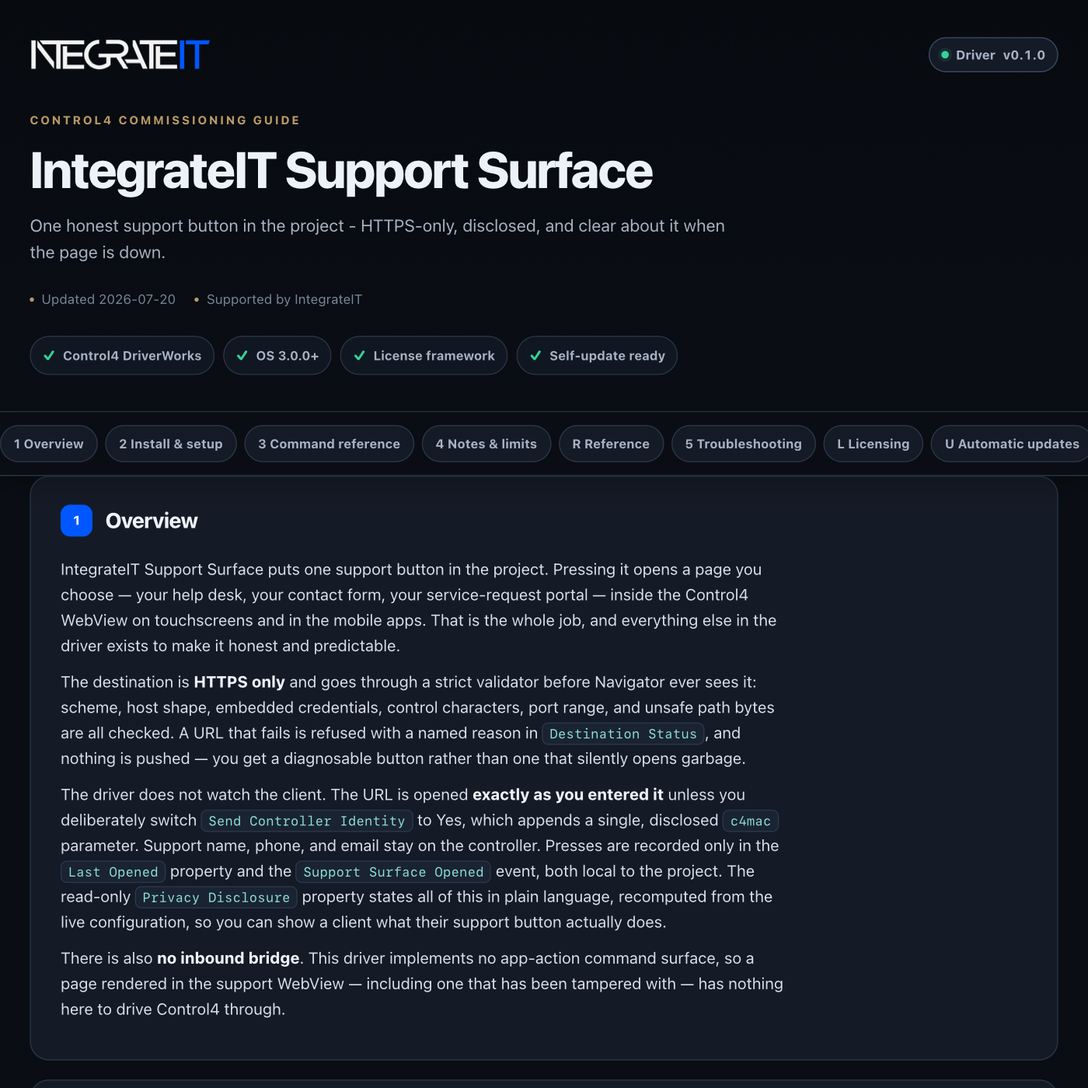
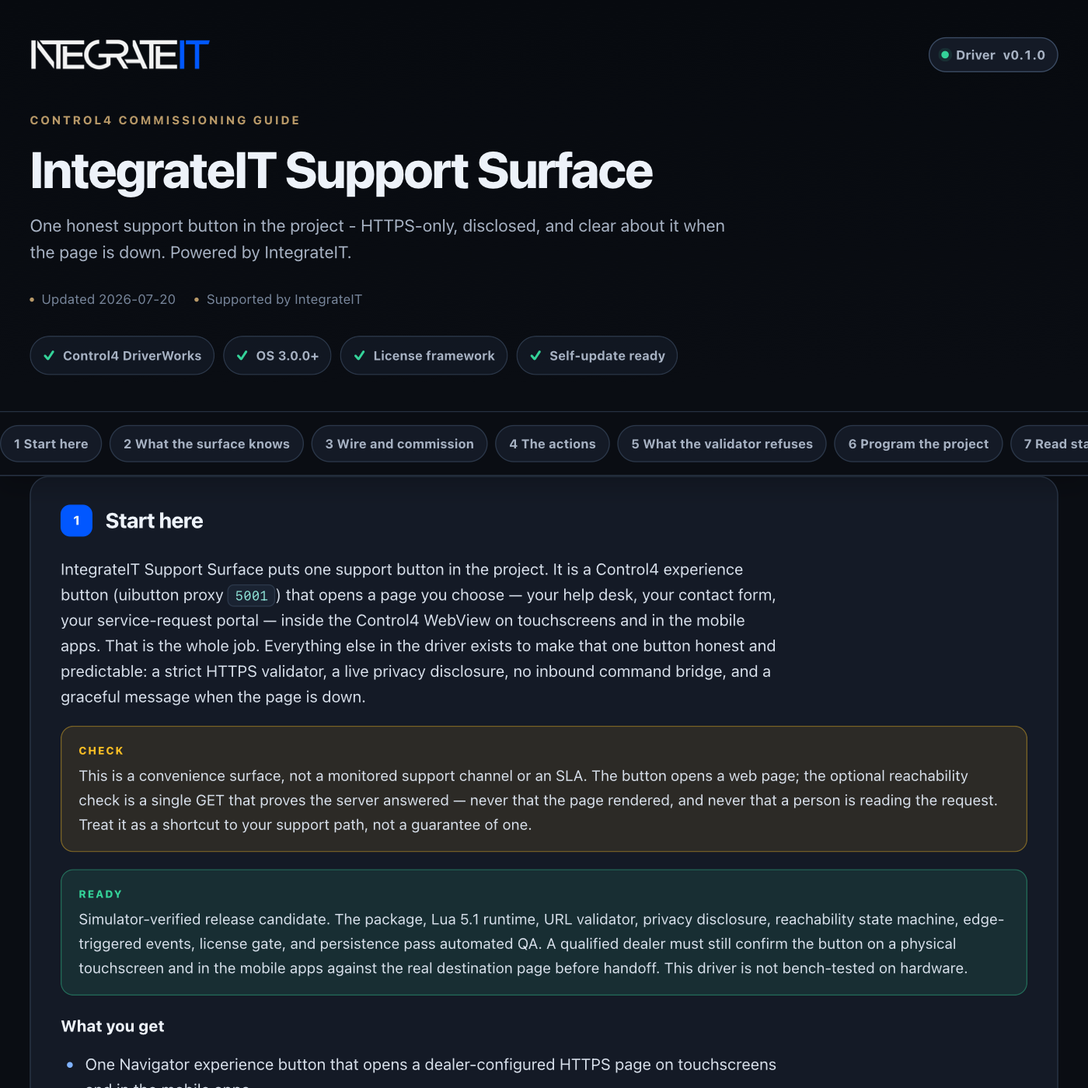
control4: publish driver channel (integrateit_support_surface 0.1.1)

diff --git a/control4/integrateit_support_surface/documentation.html b/control4/integrateit_support_surface/documentation.html
@@ -179,13 +179,13 @@ td code{white-space:normal}
     <div class="wrap">
       <div class="brandbar">
[1 lines of base64/hex data omitted]
-        <span class="version"><span class="word">Driver</span> v0.1.0</span>
+        <span class="version"><span class="word">Driver</span> v0.1.1</span>
       </div>
       <p class="eyebrow">Control4 commissioning guide</p>
       <h1>IntegrateIT Support Surface</h1>
-      <p class="sub">One honest support button in the project - HTTPS-only, disclosed, and clear about it when the page is down.</p>
+      <p class="sub">One honest support button in the project - HTTPS-only, disclosed, and clear about it when the page is down. Powered by IntegrateIT.</p>
       <div class="meta">
-        <span>Updated 2026-07-20</span>
+        <span>Updated 2026-07-26</span>
         <span>Supported by IntegrateIT</span>
       </div>
       <div class="readiness" aria-label="Driver capabilities">
@@ -198,59 +198,152 @@ td code{white-space:normal}
   </header>
 
   <div class="toc-wrap">
-    <nav class="toc wrap" aria-label="Documentation sections"><a href="#overview">1 Overview</a><a href="#install">2 Install &amp; setup</a><a href="#commands">3 Command reference</a><a href="#notes">4 Notes &amp; limits</a><a href="#reference">R Reference</a><a href="#troubleshooting">5 Troubleshooting</a><a href="#licensing">L Licensing</a><a href="#updates">U Automatic updates</a><a href="#changelog">V Version history</a></nav>
+    <nav class="toc wrap" aria-label="Documentation sections"><a href="#overview">1 Start here</a><a href="#contract">2 What the surface knows</a><a href="#setup">3 Wire and commission</a><a href="#actions">4 The actions</a><a href="#validation">5 What the validator refuses</a><a href="#programming">6 Program the project</a><a href="#status">7 Read status at a glance</a><a href="#troubleshooting">8 Troubleshoot methodically</a><a href="#trust">9 Ownership, privacy, and licensing</a><a href="#reference">R Reference</a><a href="#licensing">L Licensing</a><a href="#updates">U Automatic updates</a><a href="#changelog">V Version history</a></nav>
   </div>
 
   <main class="wrap">
     <section class="card" id="overview" data-card="overview">
-  <h2><span class="n">1</span> Overview</h2>
-  <p>IntegrateIT Support Surface puts one support button in the project. Pressing it opens a page you choose — your help desk, your contact form, your service-request portal — inside the Control4 WebView on touchscreens and in the mobile apps. That is the whole job, and everything else in the driver exists to make it honest and predictable.</p>
-  <p>The destination is <b>HTTPS only</b> and goes through a strict validator before Navigator ever sees it: scheme, host shape, embedded credentials, control characters, port range, and unsafe path bytes are all checked. A URL that fails is refused with a named reason in <code>Destination Status</code>, and nothing is pushed — you get a diagnosable button rather than one that silently opens garbage.</p>
-  <p>The driver does not watch the client. The URL is opened <b>exactly as you entered it</b> unless you deliberately switch <code>Send Controller Identity</code> to Yes, which appends a single, disclosed <code>c4mac</code> parameter. Support name, phone, and email stay on the controller. Presses are recorded only in the <code>Last Opened</code> property and the <code>Support Surface Opened</code> event, both local to the project. The read-only <code>Privacy Disclosure</code> property states all of this in plain language, recomputed from the live configuration, so you can show a client what their support button actually does.</p>
-  <p>There is also <b>no inbound bridge</b>. This driver implements no app-action command surface, so a page rendered in the support WebView — including one that has been tampered with — has nothing here to drive Control4 through.</p>
+  <h2><span class="n">1</span> Start here</h2>
+  <p>IntegrateIT Support Surface puts one support button in the project. It is a Control4 experience button (uibutton proxy <code>5001</code>) that opens a page you choose — your help desk, your contact form, your service-request portal — inside the Control4 WebView on touchscreens and in the mobile apps. That is the whole job. Everything else in the driver exists to make that one button honest and predictable: a strict HTTPS validator, a live privacy disclosure, no inbound command bridge, and a graceful message when the page is down.</p>
+  <div class="note warn">This is a convenience surface, not a monitored support channel or an SLA. The button opens a web page; the optional reachability check is a single GET that proves the server answered — never that the page rendered, and never that a person is reading the request. Treat it as a shortcut to your support path, not a guarantee of one.</div>
+  <div class="note good">Simulator-verified release candidate. The package, Lua 5.1 runtime, URL validator, privacy disclosure, reachability state machine, edge-triggered events, license gate, and persistence pass automated QA. A qualified dealer must still confirm the button on a physical touchscreen and in the mobile apps against the real destination page before handoff. This driver is not bench-tested on hardware.</div>
+  <p><b>What you get</b></p>
+  <ul>
+    <li>One Navigator experience button that opens a dealer-configured HTTPS page on touchscreens and in the mobile apps.</li>
+    <li>A strict HTTPS-only validator that names its refusal reason in <code>Destination Status</code> and fires <b>Support URL Rejected</b> instead of pushing a bad URL.</li>
+    <li>No hidden tracking: the URL opens exactly as entered unless you opt in to <code>Send Controller Identity</code>, which appends one disclosed <code>c4mac</code> parameter. Contact details never leave the controller.</li>
+    <li>A read-only <code>Privacy Disclosure</code> property recomputed from the live configuration, plus a <b>Print Privacy Disclosure</b> action.</li>
+    <li>No inbound WebView bridge: a page rendered in this surface has nothing here to drive Control4 with.</li>
+    <li>An optional reachability check (On Open or Hourly) with edge-triggered <b>Support Destination Unreachable</b> / <b>Restored</b> events and a dealer-authored offline message.</li>
+    <li><code>Support Contact Name</code>, <code>Support Phone</code>, and <code>Support Email</code> published as the <code>SUPPORT_CONTACT</code> variable for announcements and dashboards.</li>
+    <li>MAC-locked IntegrateIT licensing that gates events and monitoring, never the support page itself.</li>
+  </ul>
 </section>
 
-<section class="card" id="install" data-card="install">
-  <h2><span class="n">2</span> Install &amp; setup</h2>
+<section class="card" id="contract" data-card="contract">
+  <h2><span class="n">2</span> What the surface knows</h2>
+  <p>The driver never claims more than it can observe.</p>
+  <ul>
+    <li><b>It supplies a URL, and only a URL.</b> Rendering, scrolling, form input, and accessibility inside the page are the Control4 WebView's behavior and the page's own responsibility. This driver's entire job is to hand Navigator one validated HTTPS address.</li>
+    <li><b>Reachability is one GET and one status code.</b> A code of 0 (no answer) reads <code>Unreachable — the support page did not answer</code>; <code>200</code>–<code>399</code> reads <code>Reachable (HTTP &lt;code&gt;)</code>; a <code>4xx</code>/<code>5xx</code> reads <code>Destination error (HTTP &lt;code&gt;)</code> and is treated as unreachable, because to the person tapping the button a broken page is indistinguishable from a down one. The check proves the server answered; it cannot prove the page rendered correctly.</li>
+    <li><b>Hourly is blind between checks.</b> It probes once shortly after boot (or after you switch to Hourly) and then once an hour, so an outage that starts and ends between two checks is never observed and raises no event.</li>
+    <li><b>The probe never carries identity.</b> It fetches the address exactly as entered — never the <code>c4mac</code> parameter, even when <code>Send Controller Identity</code> is on — so the driver never beacons the controller MAC on its own schedule. The status code is identical either way.</li>
+    <li><b>No inbound bridge.</b> Only a button press (<code>SELECT</code> / <code>DO_CLICK</code>) on binding <code>5001</code> is handled; every other proxy command is debug-logged and dropped. A page loaded in this WebView — including a compromised third-party one — has nothing here to reach Control4 through.</li>
+  </ul>
+</section>
+
+<section class="card" id="setup" data-card="setup">
+  <h2><span class="n">3</span> Wire and commission</h2>
   <ol class="steps">
-    <li>Add the driver to the main room (or wherever the support button belongs).</li>
+    <li>Add <b>IntegrateIT Support Surface</b> to the room where the support button belongs.</li>
+    <li>In that room's <b>Navigator</b> properties, set the *Support* experience button <b>Visible</b>, then <b>Refresh Navigators</b>. The button does not appear until it is made visible and Navigators are refreshed — do this first so every later step can be confirmed from a real Navigator.</li>
     <li>Enter your <code>Support URL</code>. It must be a full <code>https://</code> address with a fully qualified host, e.g. <code>https://support.example.com/help</code>.</li>
-    <li>Run the <b>Validate Support URL</b> action. <code>Destination Status</code> should read *Validated*; if it does not, it names exactly what was wrong.</li>
-    <li>Fill in <code>Support Contact Name</code>, <code>Support Phone</code>, and <code>Support Email</code>. These never leave the controller — they are published in the <code>SUPPORT_CONTACT</code> variable so announcements and dashboards can read out a fallback when the page is down.</li>
-    <li>Decide on <code>Reachability Check</code>. <b>On Open</b> (default) checks the page each time the button is pressed; <b>Hourly</b> checks in the background; <b>Off</b> makes no request to the page at all, ever.</li>
+    <li>Run <b>Validate Support URL</b>. <code>Destination Status</code> should read <code>Validated — HTTPS destination accepted</code>; if not, it names exactly what was wrong (see the validation table below).</li>
+    <li>Fill in <code>Support Contact Name</code>, <code>Support Phone</code>, and <code>Support Email</code>. These never leave the controller — they publish to the <code>SUPPORT_CONTACT</code> variable so programming can announce a working fallback when the page is down.</li>
+    <li>Choose <code>Reachability Check</code>: <b>On Open</b> (default) probes the page on each press, <b>Hourly</b> probes in the background, <b>Off</b> makes no request to the page at all, ever.</li>
     <li>Write your <code>Offline Message</code> — what a client should hear or see when the page cannot be reached.</li>
-    <li>Leave <code>Send Controller Identity</code> on <b>No</b> unless your support destination genuinely needs to know which site is calling, and you have told the client.</li>
-    <li><b>Show the button in Navigator.</b> It is a Control4 experience button: select the room → <b>Navigator</b> properties → set *Support* to <b>Visible</b>, then refresh Navigators.</li>
+    <li>Leave <code>Send Controller Identity</code> on <b>No</b> unless the destination genuinely needs to know which site is calling and you have told the client.</li>
+    <li><b>Prove it:</b> press the button on a touchscreen. The chosen page opens, <code>Last Opened</code> stamps the time, <b>Support Surface Opened</b> fires, and with <code>Reachability Check</code> on <b>On Open</b>, <code>Destination Status</code> moves to <code>Reachable (HTTP 200)</code>. (A press never probes under <b>Hourly</b> — that verdict lands about five seconds after arming and then hourly — and <b>Off</b> never probes at all.)</li>
   </ol>
 </section>
 
-<section class="card" id="commands" data-card="commands">
-  <h2><span class="n">3</span> Command reference</h2>
+<section class="card" id="actions" data-card="actions">
+  <h2><span class="n">4</span> The actions</h2>
   <table>
     <tr><th>Action</th><th>What it does</th></tr>
-    <tr><td>Validate Support URL</td><td>Re-reads and re-validates <code>Support URL</code>, prints the verdict (and the refusal reason) to the Lua output window.</td></tr>
+    <tr><td>Validate Support URL</td><td>Re-reads and re-validates <code>Support URL</code>; prints the verdict, or the exact refusal reason, to the Lua output window.</td></tr>
     <tr><td>Check Destination Reachability</td><td>Fetches the configured page once and reports the HTTP result. Refuses, with a note, when <code>Reachability Check</code> is Off.</td></tr>
-    <tr><td>Refresh Navigator Button</td><td>Re-validates, re-pushes the URL to Navigator, and re-arms the hourly check. Use after editing the URL if you do not want to wait for the next press.</td></tr>
+    <tr><td>Refresh Navigator Button</td><td>Re-validates, re-pushes the URL to Navigator, and re-arms the hourly check. Use after editing the URL instead of waiting for the next press.</td></tr>
     <tr><td>Print Privacy Disclosure</td><td>Prints the full, plain-language statement of every request the driver makes and every field it attaches.</td></tr>
-    <tr><td>Print Configuration</td><td>Prints the URL, effective URL, destination state, identity setting, reachability mode, contact line, and license state.</td></tr>
+    <tr><td>Print Configuration</td><td>Prints the URL, effective URL, destination state, identity setting, reachability mode, contact line, and license state. Never prints the license key.</td></tr>
   </table>
-  <p><b>Events:</b> *Support Surface Opened*, *Support Destination Unreachable*, *Support Destination Restored*, *Support URL Rejected*. <b>Variables:</b> <code>SUPPORT_DESTINATION_STATE</code>, <code>SUPPORT_URL_VALID</code>, <code>SUPPORT_CONTACT</code>, <code>SUPPORT_MESSAGE</code>, <code>LAST_OPENED</code>.</p>
 </section>
 
-<section class="card" id="notes" data-card="notes">
-  <h2><span class="n">4</span> Notes &amp; limits</h2>
+<section class="card" id="validation" data-card="validation">
+  <h2><span class="n">5</span> What the validator refuses</h2>
+  <p>The URL goes through a deliberately strict validator before Navigator ever sees it. A refusal writes <code>Rejected: &lt;reason&gt;</code> into <code>Destination Status</code>, sets <code>SUPPORT_URL_VALID</code> to <code>0</code>, publishes an empty <code>Effective URL</code>, and fires <b>Support URL Rejected</b> — a diagnosable button rather than one that silently opens garbage.</p>
+  <table>
+    <tr><th>Rejected input</th><th>Reason shown after <code>Rejected:</code></th></tr>
+    <tr><td>Empty</td><td><code>no Support URL set</code></td></tr>
+    <tr><td>Over 512 characters</td><td><code>URL is longer than 512 characters</code></td></tr>
+    <tr><td>Contains a space or a control character</td><td><code>URL contains whitespace</code> / <code>URL contains control characters</code></td></tr>
+    <tr><td><code>javascript:</code>, <code>data:</code>, <code>mailto:</code>, or a bare hostname — anything with no <code>://</code></td><td><code>URL must be a full https:// address</code></td></tr>
+    <tr><td><code>http://</code>, <code>ftp://</code>, <code>file://</code> — any other scheme with an authority</td><td><code>refused '&lt;scheme&gt;://' — this surface is HTTPS-only</code></td></tr>
+    <tr><td><code>https:///path</code> — nothing between <code>://</code> and the first <code>/</code></td><td><code>URL has no host</code></td></tr>
+    <tr><td><code>https://user:secret@host/</code></td><td><code>URL carries embedded credentials</code></td></tr>
+    <tr><td>A colon with no port (<code>https://host:/path</code>)</td><td><code>URL port is missing after ':'</code></td></tr>
+    <tr><td>Port below 1 or above 65535</td><td><code>URL port is out of range</code></td></tr>
+    <tr><td>Anything outside letters, digits, <code>.</code> and <code>-</code> in the host</td><td><code>URL host has invalid characters</code></td></tr>
+    <tr><td>A single-label host (<code>https://support/</code>)</td><td><code>URL host is not fully qualified</code></td></tr>
+    <tr><td>A label starting or ending in <code>-</code> (<code>example.com-</code>, <code>foo.-bar.com</code>)</td><td><code>URL host is malformed</code></td></tr>
+    <tr><td>A host label longer than 63 characters</td><td><code>URL host label is too long</code></td></tr>
+    <tr><td>An angle bracket, double quote, backslash, caret, backtick, brace, or vertical bar in the path</td><td><code>URL path contains unsafe characters</code></td></tr>
+  </table>
+  <p>A URL that passes reads <code>Validated — HTTPS destination accepted</code>, publishes to <code>Effective URL</code>, and pushes to the Navigator button. With <code>Send Controller Identity</code> on Yes, one <code>c4mac</code> parameter is appended — inserted before any <code>#fragment</code> so it actually reaches the server.</p>
+</section>
+
+<section class="card" id="programming" data-card="programming">
+  <h2><span class="n">6</span> Program the project</h2>
+  <table>
+    <tr><th>Event</th><th>Fires when</th></tr>
+    <tr><td><code>Support Surface Opened</code></td><td>The button was pressed in Navigator. Local to the project.</td></tr>
+    <tr><td><code>Support Destination Unreachable</code></td><td>A reachability check found the page down or erroring — once per outage, not once per check or press.</td></tr>
+    <tr><td><code>Support Destination Restored</code></td><td>A check found the page answering again after a failure — once on the way back.</td></tr>
+    <tr><td><code>Support URL Rejected</code></td><td>The configured <code>Support URL</code> failed validation and was not pushed.</td></tr>
+  </table>
+  <table>
+    <tr><th>Variable</th><th>Type</th><th>Meaning</th></tr>
+    <tr><td><code>SUPPORT_DESTINATION_STATE</code></td><td>STRING</td><td><code>Unknown</code>, <code>Validated</code>, <code>Reachable</code>, <code>Unreachable</code>, or <code>Rejected</code></td></tr>
+    <tr><td><code>SUPPORT_URL_VALID</code></td><td>BOOL</td><td><code>1</code> when the current <code>Support URL</code> passed validation</td></tr>
+    <tr><td><code>SUPPORT_CONTACT</code></td><td>STRING</td><td>Name · Phone · Email as configured — the fallback path</td></tr>
+    <tr><td><code>SUPPORT_MESSAGE</code></td><td>STRING</td><td>The <code>Offline Message</code> while unreachable, empty otherwise</td></tr>
+    <tr><td><code>LAST_OPENED</code></td><td>STRING</td><td>Timestamp of the last press; persists across a reboot</td></tr>
+  </table>
+  <p>Three starting points, wired with this driver's own events and variables:</p>
   <ul>
-    <li><b>HTTPS only, and strictly.</b> <code>http://</code>, <code>javascript:</code>, <code>data:</code>, <code>file:</code>, bare hostnames, single-label hosts, embedded <code>user:password@</code> credentials, whitespace, control characters, out-of-range ports, and URLs over 512 characters are all refused. The reason lands in <code>Destination Status</code> and fires *Support URL Rejected*.</li>
-    <li><b>Nothing is sent that you did not configure.</b> With <code>Send Controller Identity</code> on No — the default — the URL is opened byte-for-byte as entered. On Yes, one <code>c4mac</code> parameter is appended, inserted before any <code>#fragment</code> so it actually reaches the server.</li>
-    <li><b>Reachability is one GET and one status code.</b> It proves the server answered; it cannot prove the page rendered correctly. An HTTP 5xx or 4xx is treated as unreachable, because to the person tapping the button it is.</li>
-    <li><b>An outage alerts once.</b> *Support Destination Unreachable* fires on the transition into an outage, not on every check or every press. *Support Destination Restored* fires once on the way back. While down, <code>Status</code> and <code>SUPPORT_MESSAGE</code> carry your <code>Offline Message</code> so programming can announce the phone or email fallback.</li>
-    <li><b>Licensing gates programming, not access.</b> Under Strict enforcement an unlicensed controller publishes no events and runs no reachability monitoring — but the button still opens the support page. Cutting a client off from their own support contact is not something a license state should do.</li>
-    <li><b>No inbound WebView bridge, by design.</b> The driver handles only the button press on binding 5001. Any other command on that binding is logged and dropped.</li>
-    <li><b>Navigator caches the WebView URL.</b> After changing <code>Support URL</code> the button re-pushes on its next press; run <b>Refresh Navigator Button</b> and refresh Navigators if you want it immediate.</li>
+    <li>When <b>Support Destination Unreachable</b> fires → announce <code>SUPPORT_MESSAGE</code> on the kitchen touch screen and show <code>SUPPORT_CONTACT</code>, so the client gets a working phone or email instead of a blank page.</li>
+    <li>When <b>Support Destination Restored</b> fires → clear that "support is down" notice.</li>
+    <li>When <b>Support Surface Opened</b> fires → optionally push a note to the dealer that a client tapped support. The press itself is only ever recorded in <code>Last Opened</code> and this event, both local.</li>
   </ul>
+  <p>Read <code>SUPPORT_CONTACT</code> on any dashboard as the always-available fallback even when <code>SUPPORT_URL_VALID</code> is <code>0</code>. Under Strict enforcement an unlicensed controller fires no events and runs no reachability monitoring — but the button still opens the support page, because cutting a client off from their own support contact is not something a license state should do.</p>
+</section>
+
+<section class="card" id="status" data-card="status">
+  <h2><span class="n">7</span> Read status at a glance</h2>
+  <table>
+    <tr><th>Property</th><th>Healthy result</th><th>What to do otherwise</th></tr>
+    <tr><td><code>Destination Status</code></td><td><code>Validated</code>, or <code>Reachable (HTTP 200)</code> after a check</td><td>Read the text after <code>Rejected:</code> for the exact refusal, or check the page from the controller's network</td></tr>
+    <tr><td><code>Effective URL</code></td><td>The URL you entered (plus <code>c4mac</code> only if opted in)</td><td>Empty means the URL is invalid — fix <code>Support URL</code></td></tr>
+    <tr><td><code>Privacy Disclosure</code></td><td>A one-line summary matching your configuration</td><td>Run <b>Print Privacy Disclosure</b> for the full statement</td></tr>
+    <tr><td><code>Last Opened</code></td><td>Timestamp of the last press</td><td><code>Never</code> means the button has not been pressed since install</td></tr>
+  </table>
+  <p>With <b>On Open</b>, <code>Destination Status</code> stays <code>Validated</code> until the first press produces a <code>Reachable</code> / <code>Unreachable</code> verdict. With <b>Hourly</b>, the first verdict lands a few seconds after boot and then refreshes each hour. <b>Print Configuration</b> writes the full state to the Lua output window and never prints the license key.</p>
+</section>
+
+<section class="card" id="troubleshooting" data-card="troubleshooting">
+  <h2><span class="n">8</span> Troubleshoot methodically</h2>
+  <table>
+    <tr><th>Symptom</th><th>Likely cause</th><th>Fix</th></tr>
+    <tr><td>Button missing in Navigator</td><td>Experience button not made Visible</td><td>Room → Navigator → set *Support* Visible, then <b>Refresh Navigators</b>.</td></tr>
+    <tr><td><code>Destination Status</code> reads <code>Rejected:</code></td><td>The URL failed validation</td><td>Read the reason after <code>Rejected:</code> — it names the exact problem. Enter a full <code>https://</code> address with a fully qualified host.</td></tr>
+    <tr><td>Button opens the old page</td><td>Navigator cached the previous URL</td><td>Run <b>Refresh Navigator Button</b>, then refresh Navigators.</td></tr>
+    <tr><td>The driver <b>Status</b> line shows the offline message</td><td>A reachability check got no usable answer</td><td>Open the page from a browser on the controller's network; confirm the certificate is valid and the host resolves.</td></tr>
+    <tr><td>Reachable in a browser, <code>Unreachable</code> here</td><td>Controller DNS, firewall, or an untrusted certificate</td><td>Verify from the controller's own network segment; internal-only hosts need a certificate the controller accepts.</td></tr>
+    <tr><td>An outage under Hourly was never noticed</td><td>It started and ended between two checks</td><td>Expected — Hourly samples once shortly after arming, then once an hour; use <b>On Open</b> for per-press certainty.</td></tr>
+    <tr><td>No events reach programming</td><td>Strict enforcement with no valid license</td><td>Check <code>License Status</code>; the page still opens, but events and monitoring are gated.</td></tr>
+  </table>
+  <div class="note">Turn on <code>Debug Mode → Print</code> to watch validation, the URL push, and every reachability call in the Lua output window.</div>
+  <p>If a symptom survives every check above, run <b>Print Configuration</b>, capture the Lua output window, and send it to support@integrateit.tech · (913) 804-7575.</p>
+</section>
+
+<section class="card" id="trust" data-card="trust">
+  <h2><span class="n">9</span> Ownership, privacy, and licensing</h2>
+  <p>This package is an original IntegrateIT implementation built on documented Control4 UI-button, WebView, and HTTP contracts. It does not bundle another vendor's runtime, source code, brand assets, trial system, or license. Driver engineering, Control4 integration, documentation, QA, licensing, updates, and support are provided by IntegrateIT.</p>
+  <p>What leaves the controller is narrow and disclosed: the optional reachability GET of your own support page (the driver reads only its HTTP status code), the opt-in <code>c4mac</code> parameter on the opened URL when you enable <code>Send Controller Identity</code>, and the shared IntegrateIT license and update services, which use the controller identity, driver slug, version, configured license key, and update channel as documented in the reference below. <code>Support Contact Name</code>, <code>Support Phone</code>, and <code>Support Email</code> stay on the controller and are never transmitted. The license key is never written to the log. The read-only <code>Privacy Disclosure</code> property states all of this, recomputed from the live configuration, so you can show a client exactly what their support button does.</p>
+  <p>Lenient mode allows commissioning without an activated key and keeps <code>License Status</code> visible. Strict mode blocks the events and the reachability monitoring until the Ops Portal has minted and validated a key for that controller — but never the support page itself. Installing this package does not itself mint or activate a controller license.</p>
 <section class="card" id="reference" data-card="reference">
   <h2><span class="n">R</span> Reference</h2>
-  <p>Generated from the driver manifest at build time — always matches this build (v0.1.0).</p>
+  <p>Generated from the driver manifest at build time — always matches this build (v0.1.1).</p>
   <h3>Properties</h3>
   <table>
     <tr><th>Property</th><th>Type</th><th>Default</th><th>Description</th></tr>
@@ -305,20 +398,6 @@ td code{white-space:normal}
   </table>
 </section>
 </section>
-
-<section class="card" id="troubleshooting" data-card="troubleshooting">
-  <h2><span class="n">5</span> Troubleshooting</h2>
-  <table>
-    <tr><th>Symptom</th><th>Likely cause</th><th>Fix</th></tr>
-    <tr><td>Button missing in Navigator</td><td>Experience button not made Visible</td><td>Room → Navigator → set *Support* Visible, then refresh Navigators.</td></tr>
-    <tr><td><code>Destination Status</code> reads Rejected</td><td>The URL failed validation</td><td>Read the reason after "Rejected:" — it names the exact problem. Enter a full <code>https://</code> address with a fully qualified host.</td></tr>
-    <tr><td>Button opens the old page</td><td>Navigator cached the previous URL</td><td>Run <b>Refresh Navigator Button</b>, then refresh Navigators.</td></tr>
-    <tr><td>Status shows the offline message</td><td>The reachability check could not get a usable answer</td><td>Check the page from a browser on the same network; confirm the certificate is valid and the host resolves from the controller.</td></tr>
-    <tr><td>Reachable in a browser, Unreachable here</td><td>Controller DNS, firewall, or a certificate the controller does not trust</td><td>Verify from the controller's network segment; internal-only hosts need a certificate the controller accepts.</td></tr>
-    <tr><td>No events reach programming</td><td>Strict enforcement with no valid license</td><td>Check <code>License Status</code>; the page still opens, but events and monitoring are gated.</td></tr>
-  </table>
-  <div class="note">Turn on <code>Debug Mode → Print</code> to watch validation, the URL push, and every reachability call in the Lua output window.</div>
-</section>
 <section class="card" id="licensing" data-card="licensing">
   <h2><span class="n">L</span> Licensing</h2>
   <p>This driver is licensed <b>per controller</b>. Each license key locks to one controller's
@@ -366,7 +445,9 @@ td code{white-space:normal}
     <section class="card" id="changelog" data-card="changelog">
   <h2><span class="n">V</span> Version history</h2>
   <div class="chg">
-    <div class="rel"><b>v0.1.0</b> <span class="pill green">current</span><span class="d">2026-07-20</span>
+    <div class="rel"><b>v0.1.1</b> <span class="pill green">current</span><span class="d">2026-07-26</span>
+      <ul><li>Documentation rebuilt to the IntegrateIT commissioning-guide standard: uniform sections, honest contracts, verified claim-by-claim against the code.</li></ul></div>
+    <div class="rel"><b>v0.1.0</b><span class="d">2026-07-20</span>
       <ul><li>First cut: one Navigator experience button that opens a dealer-configured HTTPS support or contact page on touchscreens and in the mobile apps.</li><li>HTTPS-only destination behind a strict validator (scheme, fully qualified host, embedded credentials, control characters, whitespace, port range, unsafe path bytes, 512-character cap); a refusal names its reason in Destination Status and fires Support URL Rejected instead of pushing a bad URL.</li><li>Privacy by construction: the URL opens exactly as entered unless Send Controller Identity is explicitly opted in, contact details never leave the controller, and the read-only Privacy Disclosure property plus the Print Privacy Disclosure action state every request the driver makes.</li><li>No inbound WebView command bridge — only the button press on binding 5001 is handled, so a page in the support WebView cannot drive Control4 through this driver.</li><li>Optional reachability check (On Open or Hourly) with edge-triggered Support Destination Unreachable / Restored events and the dealer's Offline Message published to Status and SUPPORT_MESSAGE.</li><li>Licensing gates events and reachability monitoring; it never withholds the support page itself.</li></ul></div>
   </div>
 </section>

diff --git a/control4/integrateit_support_surface/CHANGELOG.md b/control4/integrateit_support_surface/CHANGELOG.md
@@ -1,5 +1,8 @@
 # Changelog — IntegrateIT Support Surface
 
+## [0.1.1] - 2026-07-26
+- Documentation rebuilt to the IntegrateIT commissioning-guide standard: uniform sections, honest contracts, verified claim-by-claim against the code.
+
 ## [0.1.0] - 2026-07-20
 - First cut: one Navigator experience button that opens a dealer-configured HTTPS support or contact page on touchscreens and in the mobile apps.
 - HTTPS-only destination behind a strict validator (scheme, fully qualified host, embedded credentials, control characters, whitespace, port range, unsafe path bytes, 512-character cap); a refusal names its reason in Destination Status and fires Support URL Rejected instead of pushing a bad URL.
